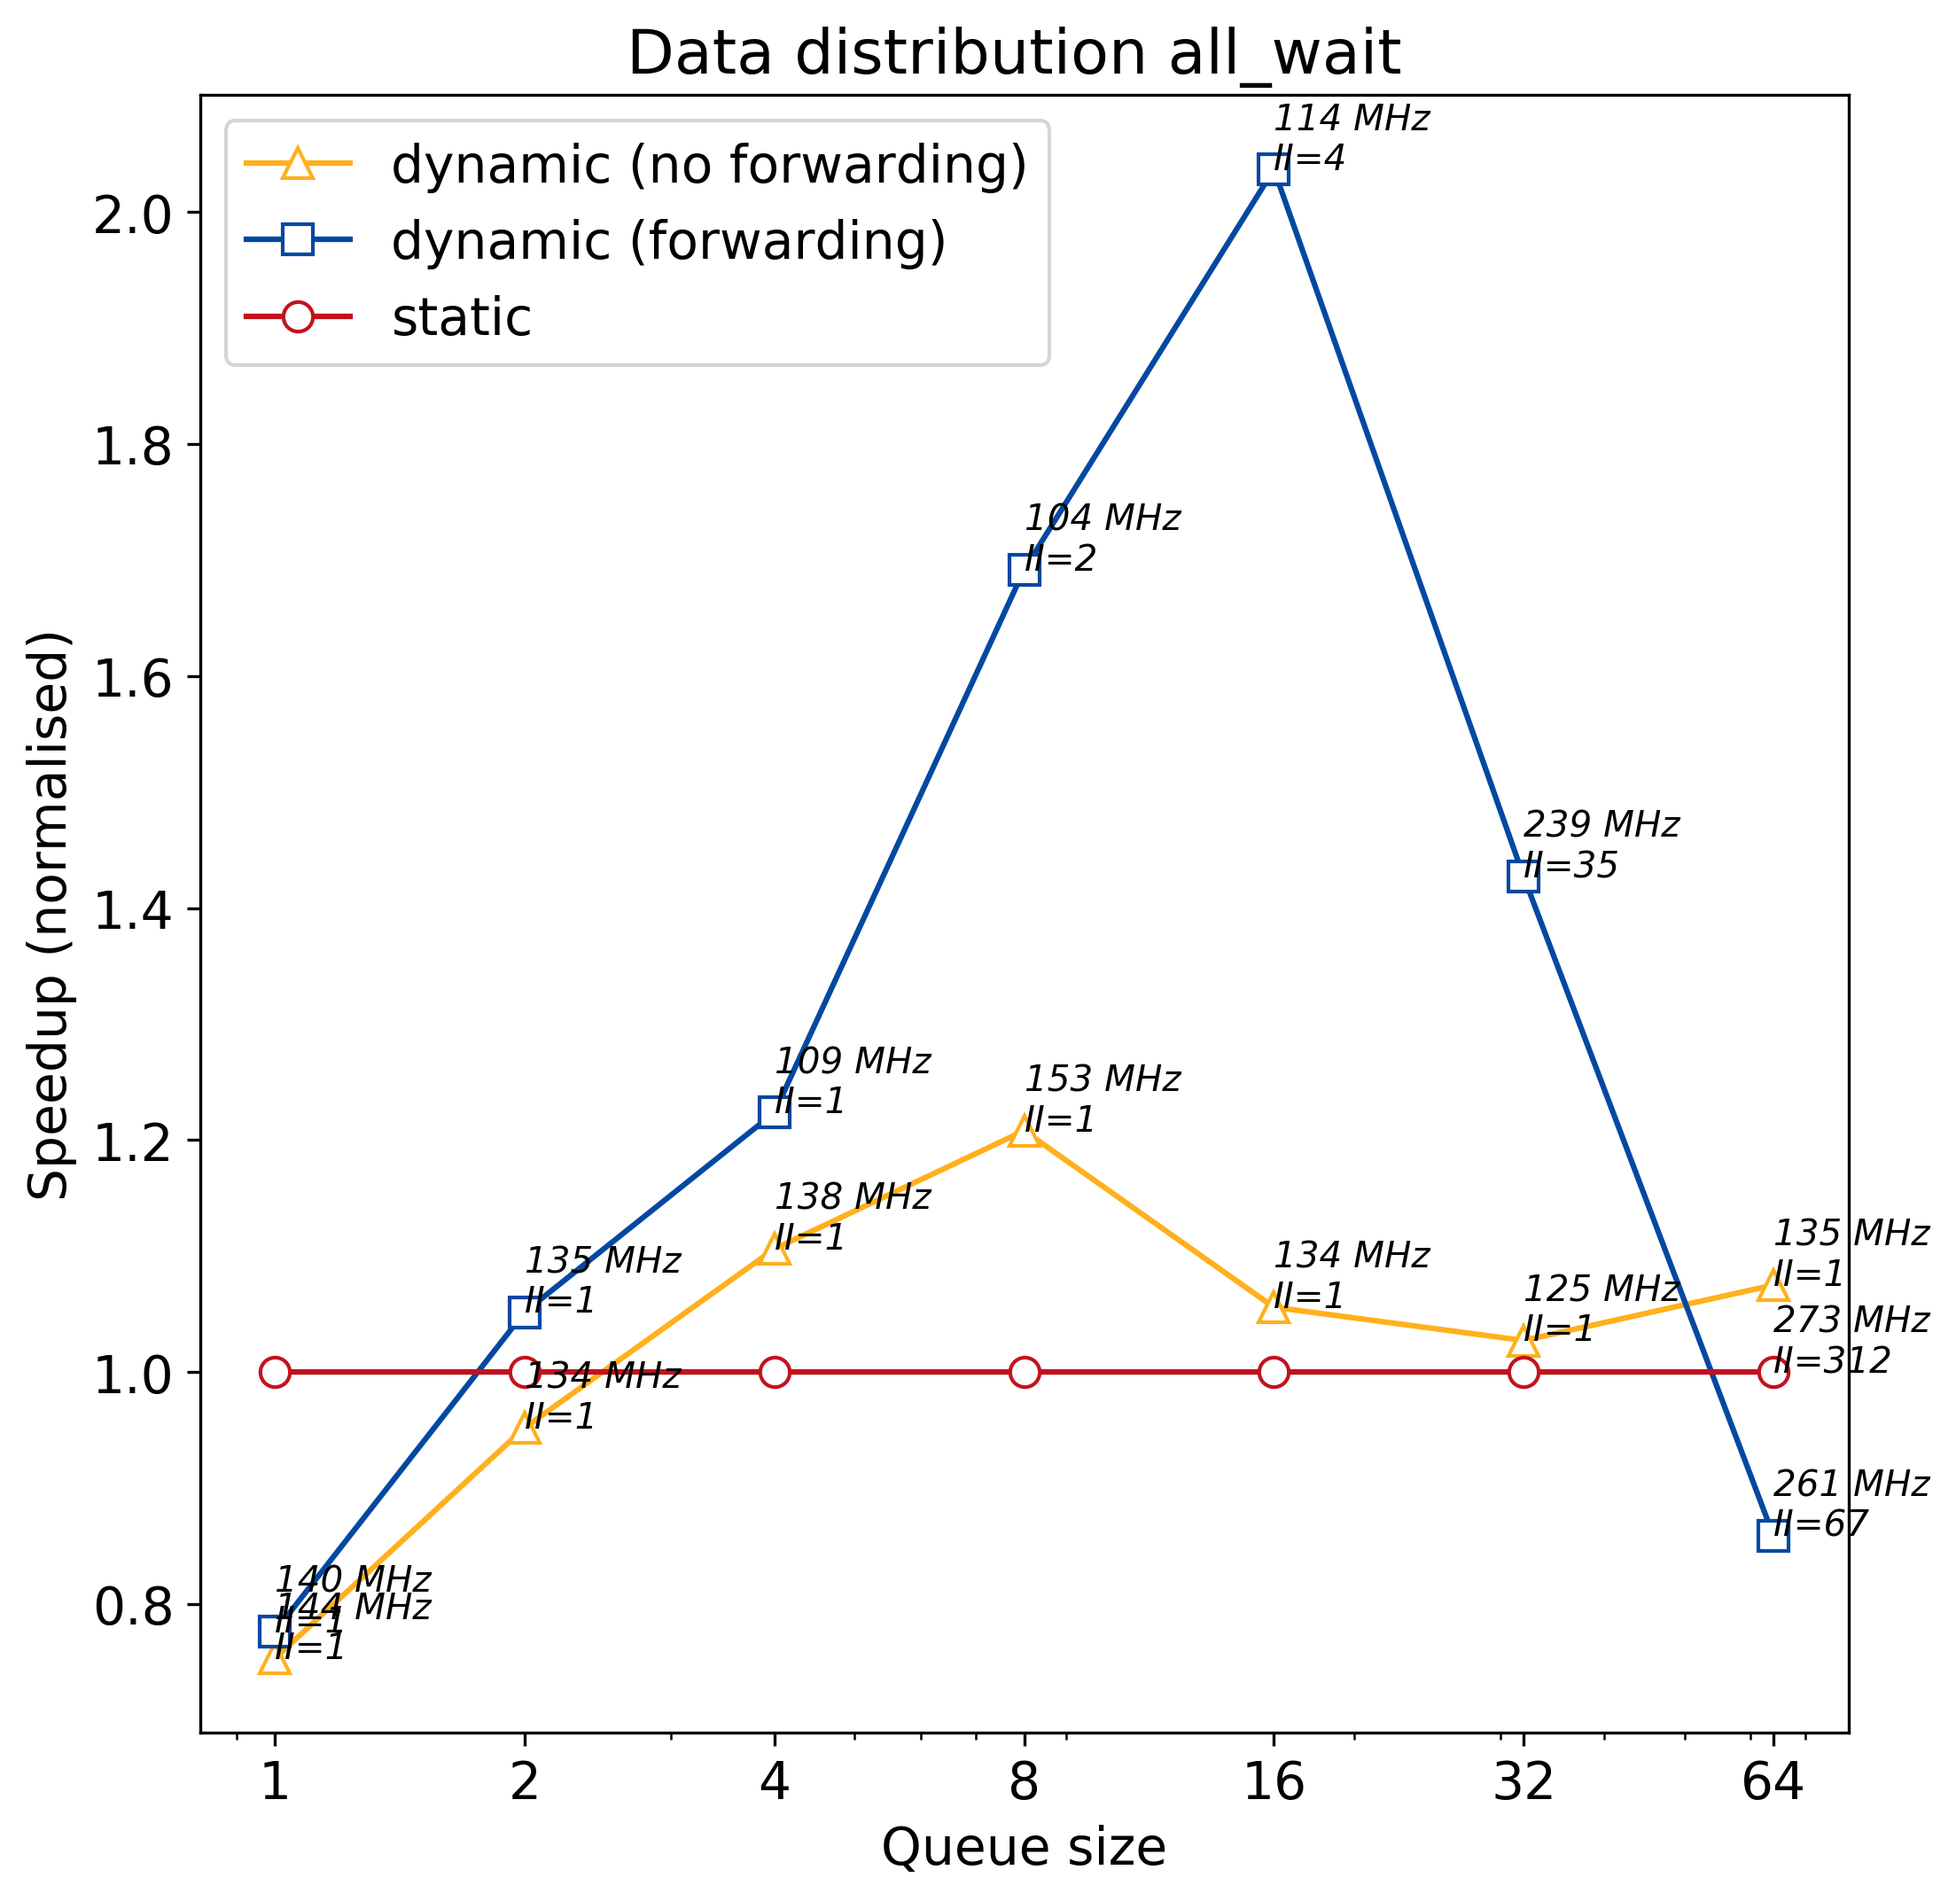
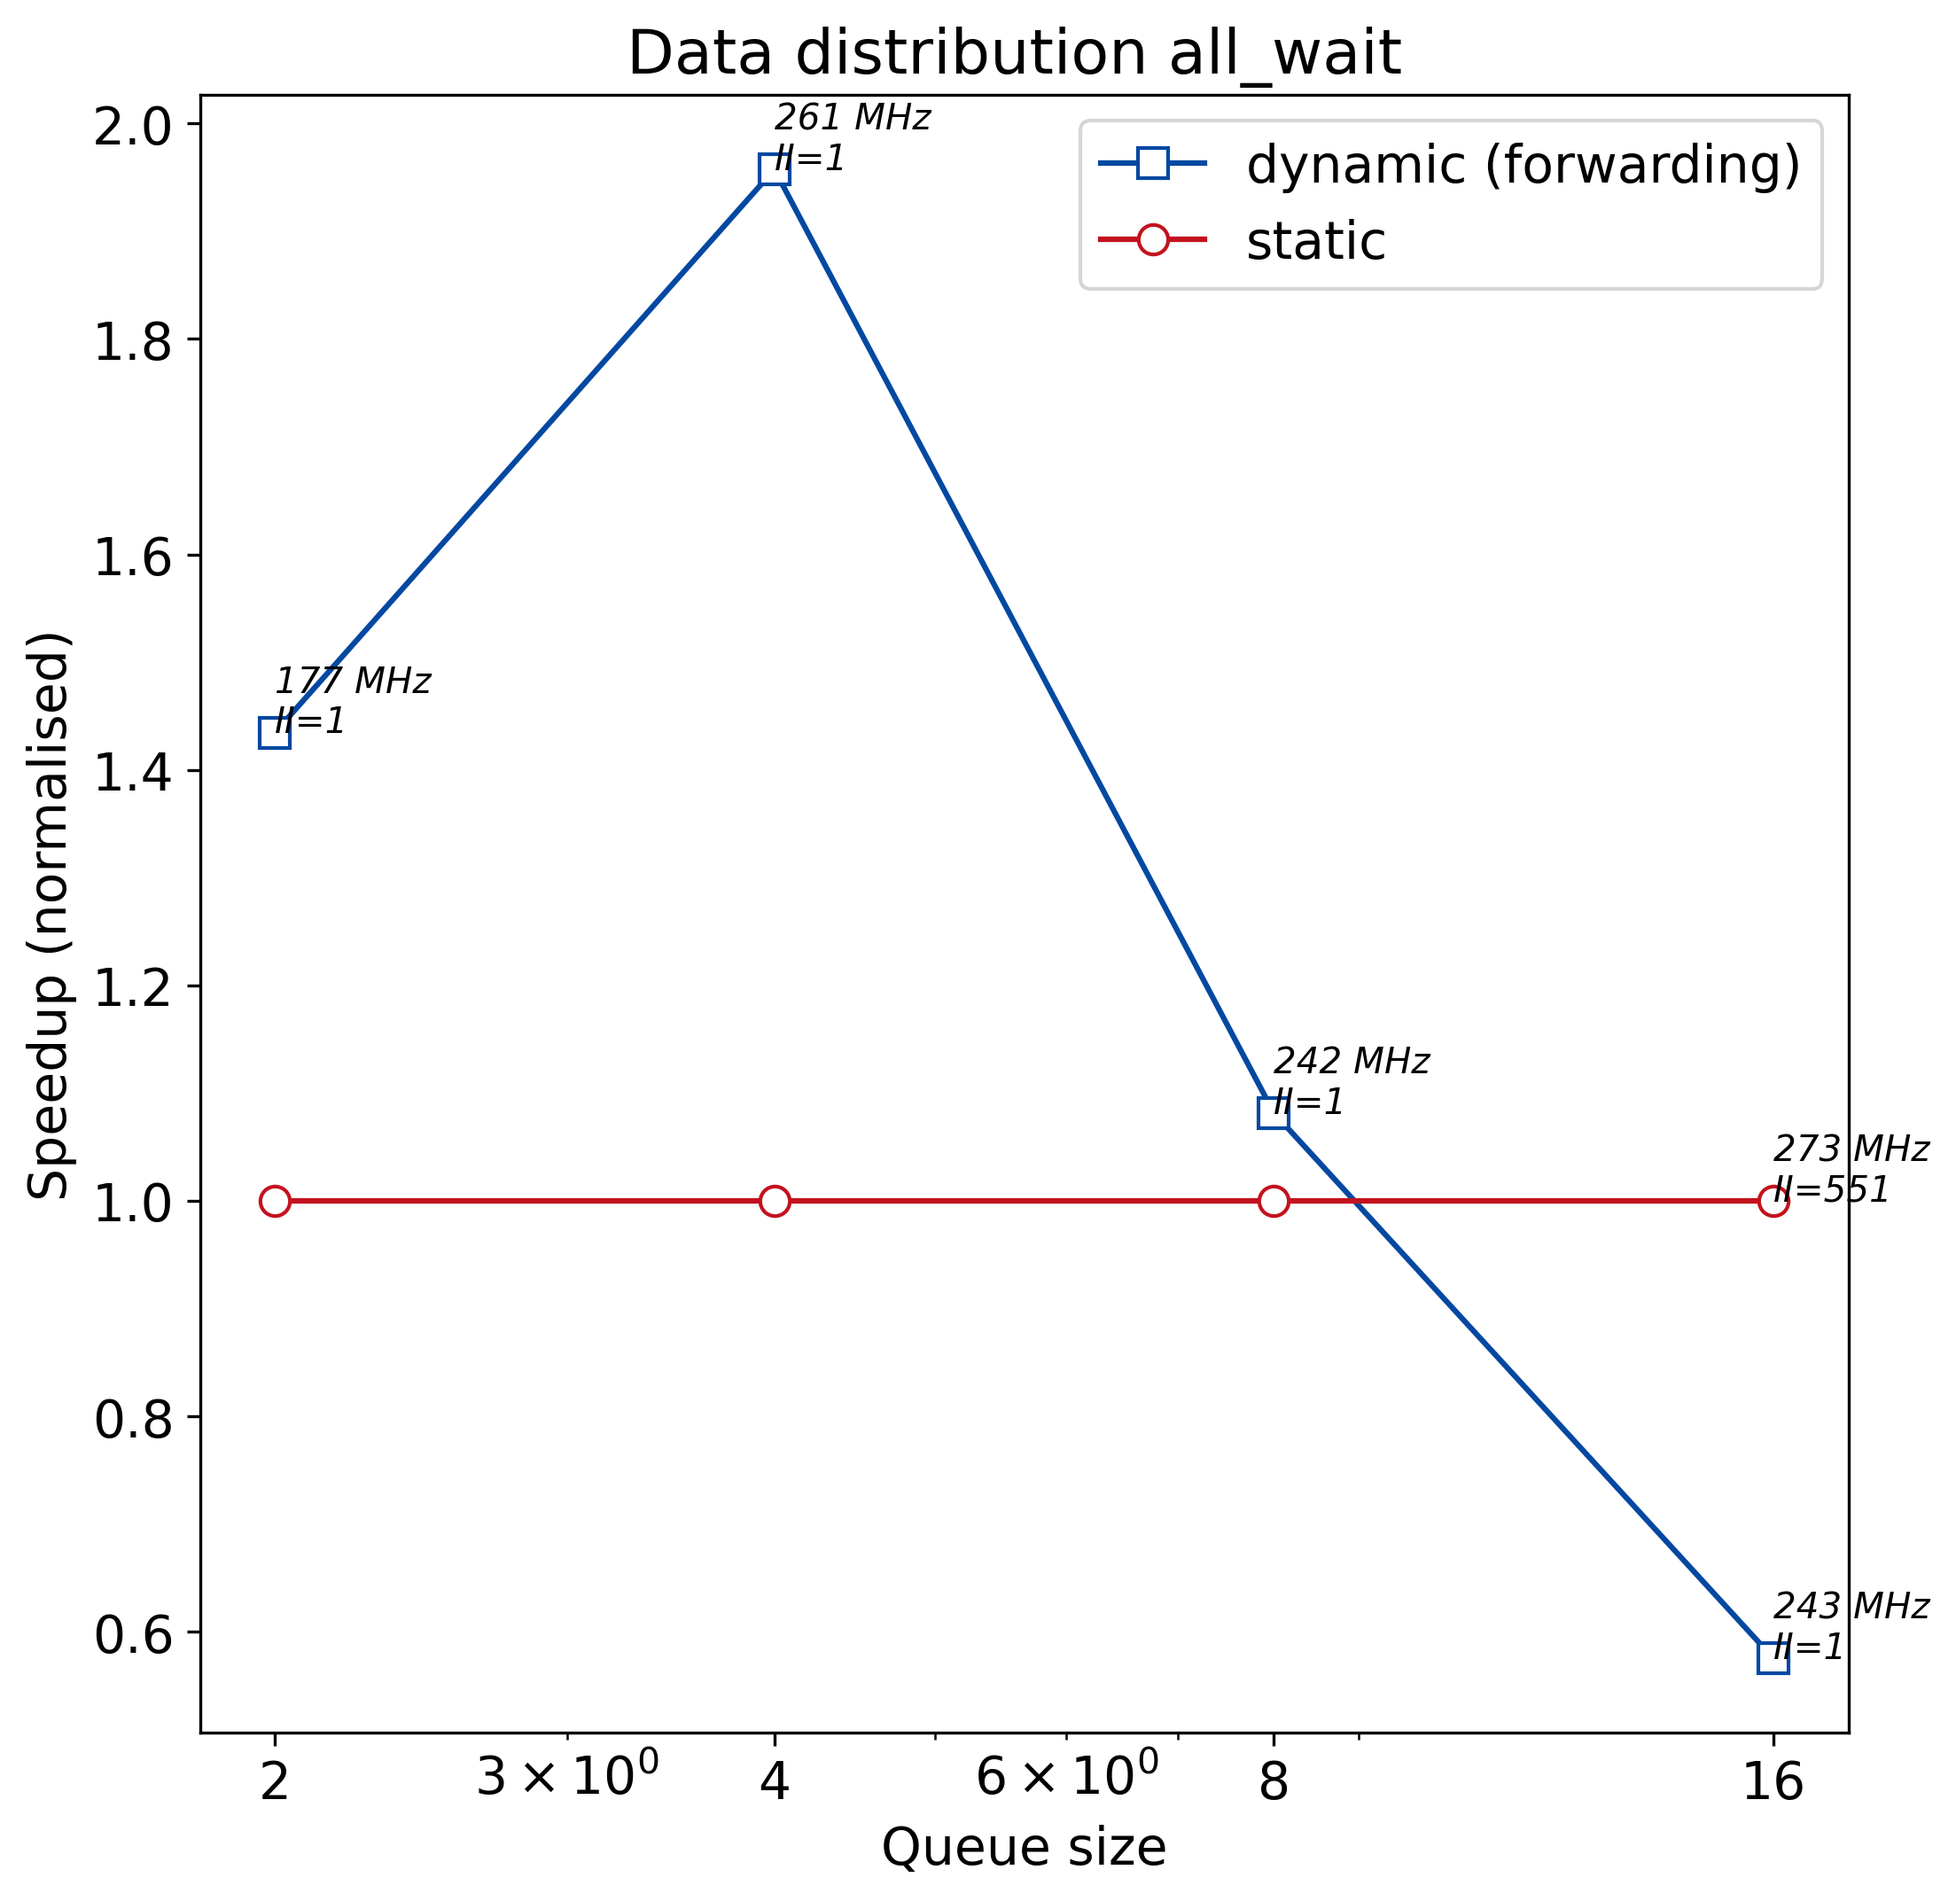
cp: hw results for non-evicting queue (lat 72/ii).

diff --git a/vis_exp.py b/vis_exp.py
@@ -6,10 +6,9 @@ import numpy as np
 from pathlib import Path
 
 # Keep parameters synced
-from run_exp import (EXP_DATA_DIR, Q_SIZES_DYNAMIC, Q_SIZES_DYNAMIC_NO_FORWARD, DATA_DISTRIBUTIONS,
-                     KERNEL_ASIZE_PAIRS, KERNEL_ASIZE_PAIRS_SIM, PERCENTAGE_WAIT)
-from run_exp_all_percentages import (CSV_PERCENTAGES_RES_FILE, PERCENTAGES_WAIT, BEST_Q_SIZES_DYNAMIC, 
-                                     BEST_Q_SIZES_DYNAMIC_NO_FORWARD)
+from run_exp import (EXP_DATA_DIR, Q_SIZES_DYNAMIC, DATA_DISTRIBUTIONS,
+                     KERNEL_ASIZE_PAIRS, KERNEL_ASIZE_PAIRS_SIM)
+from run_exp_all_percentages import (CSV_PERCENTAGES_RES_FILE, PERCENTAGES_WAIT, BEST_Q_SIZES_DYNAMIC)
 
 plt.rcParams['font.size'] = 14
 # colors = seaborn.color_palette("rocket", 3)
@@ -51,7 +50,6 @@ def make_plot(filename, relative=True, y_label='Speedup (normalised)', title='')
     global fig_id
     global BINS_STATIC
     global BINS_DYNAMIC
-    global BINS_DYNAMIC_NO_FORWARD
 
     fig_id = fig_id + 1
 
@@ -61,19 +59,14 @@ def make_plot(filename, relative=True, y_label='Speedup (normalised)', title='')
 
     x2 = df['q_size']
     y2 = df['dynamic'].replace({0: np.nan})
-    x3 = df['q_size']
-    y3 = df['dynamic_no_forward'].replace({0: np.nan})
 
     if relative:
         static_baseline = y[0]
         y = [1 for _ in df['static']]
         y2 = [static_baseline/val for val in y2]
-        y3 = [static_baseline/val for val in y3]
 
     # plot
     fig = plt.figure(fig_id, figsize=(8, 8))
-    plt.semilogx(x3, y3, linestyle='-', marker='^', label='dynamic (no forwarding)',
-                 color=colors[2], mfc='w', markersize=8)
     plt.semilogx(x2, y2, linestyle='-', marker='s', label='dynamic (forwarding)',
                  color=colors[1], mfc='w', markersize=8)
     plt.semilogx(x, y, linestyle='-', marker='o', label='static',
@@ -91,13 +84,8 @@ def make_plot(filename, relative=True, y_label='Speedup (normalised)', title='')
             if not np.isnan(y2[i]):
                 plt.text(x2[i], y2[i], f'{freq} MHz\nII={ii}', fontsize='x-small', fontstyle='italic')
 
-        for i in range(len(BINS_DYNAMIC_NO_FORWARD)):
-            freq = get_freq(BINS_DYNAMIC_NO_FORWARD[i])
-            ii = get_ii(BINS_DYNAMIC_NO_FORWARD[i])
-            if not np.isnan(y3[i]):
-                plt.text(x3[i], y3[i], f'{freq} MHz\nII={ii}', fontsize='x-small', fontstyle='italic') 
 
-    xticks = Q_SIZES_DYNAMIC_NO_FORWARD
+    xticks = Q_SIZES_DYNAMIC
     plt.xticks(ticks=xticks, labels=xticks)
 
     plt.xlabel(r'Queue size', fontsize=14)
@@ -114,7 +102,6 @@ def make_plot_all_percentages(filename, kernel, relative=False, y_label='Speedup
     global fig_id
     global BINS_STATIC
     global BINS_DYNAMIC
-    global BINS_DYNAMIC_NO_FORWARD
 
     fig_id = fig_id + 1
 
@@ -124,8 +111,6 @@ def make_plot_all_percentages(filename, kernel, relative=False, y_label='Speedup
 
     x2 = df['percentage']
     y2 = df[f'dynamic (q_size {BEST_Q_SIZES_DYNAMIC[kernel]})'].replace({0: np.nan})
-    x3 = df['percentage']
-    y3 = df[f'dynamic_no_forward (q_size {BEST_Q_SIZES_DYNAMIC_NO_FORWARD[kernel]})'].replace({0: np.nan})
 
     if relative:
         y2 = [y[k]/val for k, val in enumerate(y2)]
@@ -134,9 +119,6 @@ def make_plot_all_percentages(filename, kernel, relative=False, y_label='Speedup
 
     # plot
     fig = plt.figure(fig_id, figsize=(8, 8))
-    plt.plot(x3, y3, linestyle='-', marker='^', 
-                 label=f'dynamic (no forwarding, q_size {BEST_Q_SIZES_DYNAMIC_NO_FORWARD[kernel]})',
-                 color=colors[2], mfc='w', markersize=8)
     plt.plot(x2, y2, linestyle='-', marker='s', 
                  label=f'dynamic (forwarding, q_size {BEST_Q_SIZES_DYNAMIC[kernel]})',
                  color=colors[1], mfc='w', markersize=8)
@@ -154,12 +136,6 @@ def make_plot_all_percentages(filename, kernel, relative=False, y_label='Speedup
                 freq = get_freq(BINS_DYNAMIC[i])
                 ii = get_ii(BINS_DYNAMIC[i])
                 plt.text(x2[len(x2) - 1], y2[len(y2) - 1], f'{freq} MHz\nII={ii}', fontsize='x-small', fontstyle='italic')
-
-        for i in range(len(BINS_DYNAMIC_NO_FORWARD)):
-            if Q_SIZES_DYNAMIC_NO_FORWARD[i] == BEST_Q_SIZES_DYNAMIC_NO_FORWARD[kernel]:
-                freq = get_freq(BINS_DYNAMIC_NO_FORWARD[i])
-                ii = get_ii(BINS_DYNAMIC_NO_FORWARD[i])
-                plt.text(x3[len(x3) - 1], y3[len(y3) - 1], f'{freq} MHz\nII={ii}', fontsize='x-small', fontstyle='italic') 
 
     xticks = PERCENTAGES_WAIT
     plt.xticks(ticks=xticks, labels=xticks)
@@ -185,26 +161,23 @@ if __name__ == '__main__':
     is_sim = 'sim' == sys.argv[1]
     bin_ext = 'fpga_' + sys.argv[1]
     KERNEL_ASIZE_PAIRS = KERNEL_ASIZE_PAIRS_SIM if is_sim else KERNEL_ASIZE_PAIRS
-    SUB_DIR = 'simulation' if is_sim else 'hardware' 
-    SUB_DIR = SUB_DIR if 'emu' != sys.argv[1] else '/tmp' 
+    SUB_DIR = sys.argv[1]
 
     Y_LABEL = 'Cycles' if is_sim else 'Time'
 
     for kernel in KERNEL_ASIZE_PAIRS.keys():
-        BINS_STATIC = [f'{kernel}/bin/{kernel}_static.{BIN_EXTENSION}']
-        BINS_DYNAMIC = [f'{kernel}/bin/{kernel}_dynamic_{s}qsize.{BIN_EXTENSION}' 
+        BINS_STATIC = [f'{kernel}/bin/{kernel}_static.fpga']
+        BINS_DYNAMIC = [f'{kernel}/bin/{kernel}_dynamic_{s}qsize.{bin_ext}' 
                         for s in Q_SIZES_DYNAMIC]
-        BINS_DYNAMIC_NO_FORWARD = [f'{kernel}/bin/{kernel}_dynamic_no_forward_{s}qsize.{BIN_EXTENSION}' 
-                                   for s in Q_SIZES_DYNAMIC_NO_FORWARD]
 
         # Ensure dir structure exists
         Path(f'{EXP_DATA_DIR}/{kernel}/{SUB_DIR}').mkdir(parents=True, exist_ok=True)
         for distr_idx, distr_name in DATA_DISTRIBUTIONS.items():
             percentage_suffix = ''
             percentage_suffix_title = ''
-            if distr_idx == 2:
-                percentage_suffix = f'_{PERCENTAGE_WAIT}'
-                percentage_suffix_title = f'({PERCENTAGE_WAIT} %)'
+            # if distr_idx == 2:
+            #     percentage_suffix = f'_{PERCENTAGE_WAIT}'
+            #     percentage_suffix_title = f'({PERCENTAGE_WAIT} %)'
 
             csv_fname = f'{EXP_DATA_DIR}/{kernel}/{SUB_DIR}/{distr_name}{percentage_suffix}.csv'
 
@@ -212,12 +185,12 @@ if __name__ == '__main__':
 
 
         ## Plot speedup vs. % data hazards
-        csv_file_all_percentages = f'{EXP_DATA_DIR}/{kernel}/{SUB_DIR}/{CSV_PERCENTAGES_RES_FILE}'
-        if Path(csv_file_all_percentages).is_file():
-            make_plot_all_percentages(csv_file_all_percentages, kernel, y_label=Y_LABEL,
-                                    title='Performance at various levels of data hazards')
+        # csv_file_all_percentages = f'{EXP_DATA_DIR}/{kernel}/{SUB_DIR}/{CSV_PERCENTAGES_RES_FILE}'
+        # if Path(csv_file_all_percentages).is_file():
+        #     make_plot_all_percentages(csv_file_all_percentages, kernel, y_label=Y_LABEL,
+        #                             title='Performance at various levels of data hazards')
 
-            make_plot_all_percentages(csv_file_all_percentages, kernel, relative=True,
-                                    title='Speedup of Store Queue at various levels of data hazards')
+        #     make_plot_all_percentages(csv_file_all_percentages, kernel, relative=True,
+        #                             title='Speedup of Store Queue at various levels of data hazards')
 
 

diff --git a/run_exp.py b/run_exp.py
@@ -88,7 +88,7 @@ if __name__ == '__main__':
                 static_time = 0
                 dyn_time = 0
 
-                static_time = run_bin(f'{kernel}/bin/{kernel}_static.{bin_ext}', 
+                static_time = run_bin(f'{kernel}/bin/{kernel}_static.fpga', 
                                       a_size, distr=distr_idx)
 
                 for i, q_size in enumerate(Q_SIZES_DYNAMIC):

diff --git a/build_all.py b/build_all.py
@@ -31,7 +31,7 @@ if __name__ == '__main__':
     for kernel in KERNELS:
         print('Building for kernel:', kernel)
 
-        run_make(kernel, build_make_string(TARGET, kernel='static'))
+        # run_make(kernel, build_make_string(TARGET, kernel='static'))
 
         for q_size in Q_SIZES_DYNAMIC:
           run_make(kernel, build_make_string(TARGET, kernel='dynamic', q_size=q_size))
